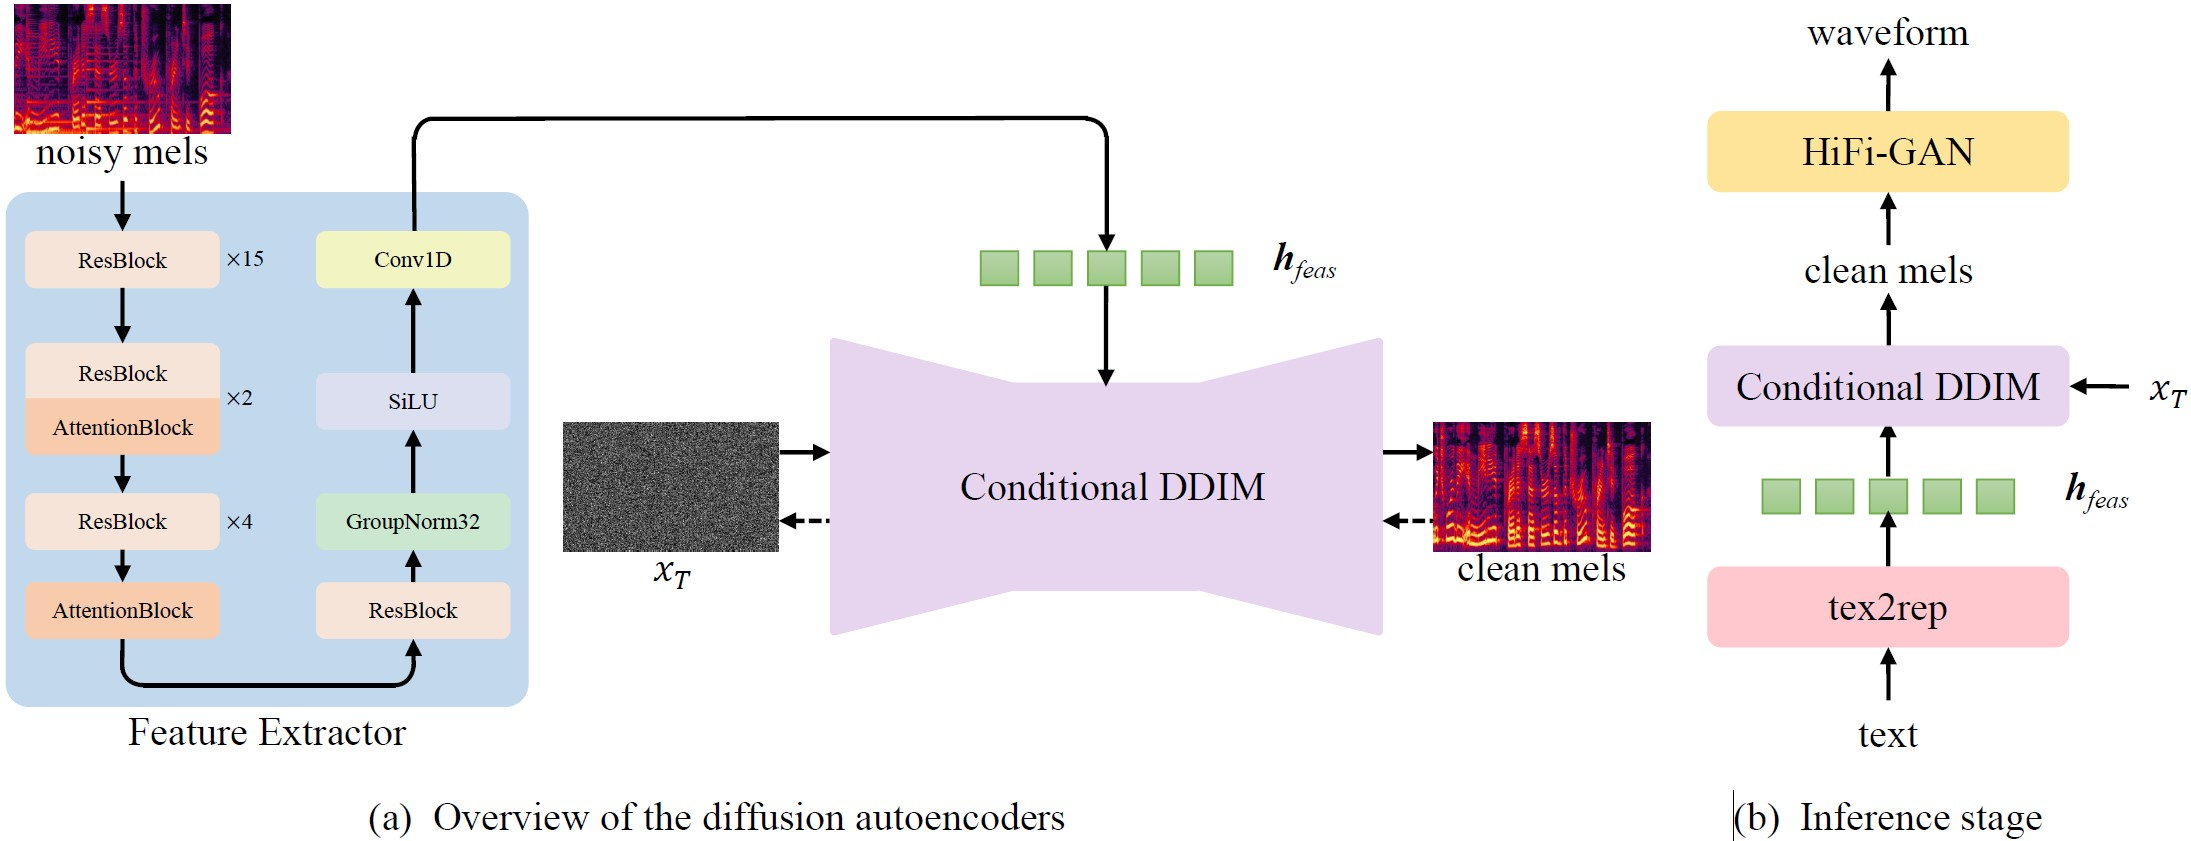
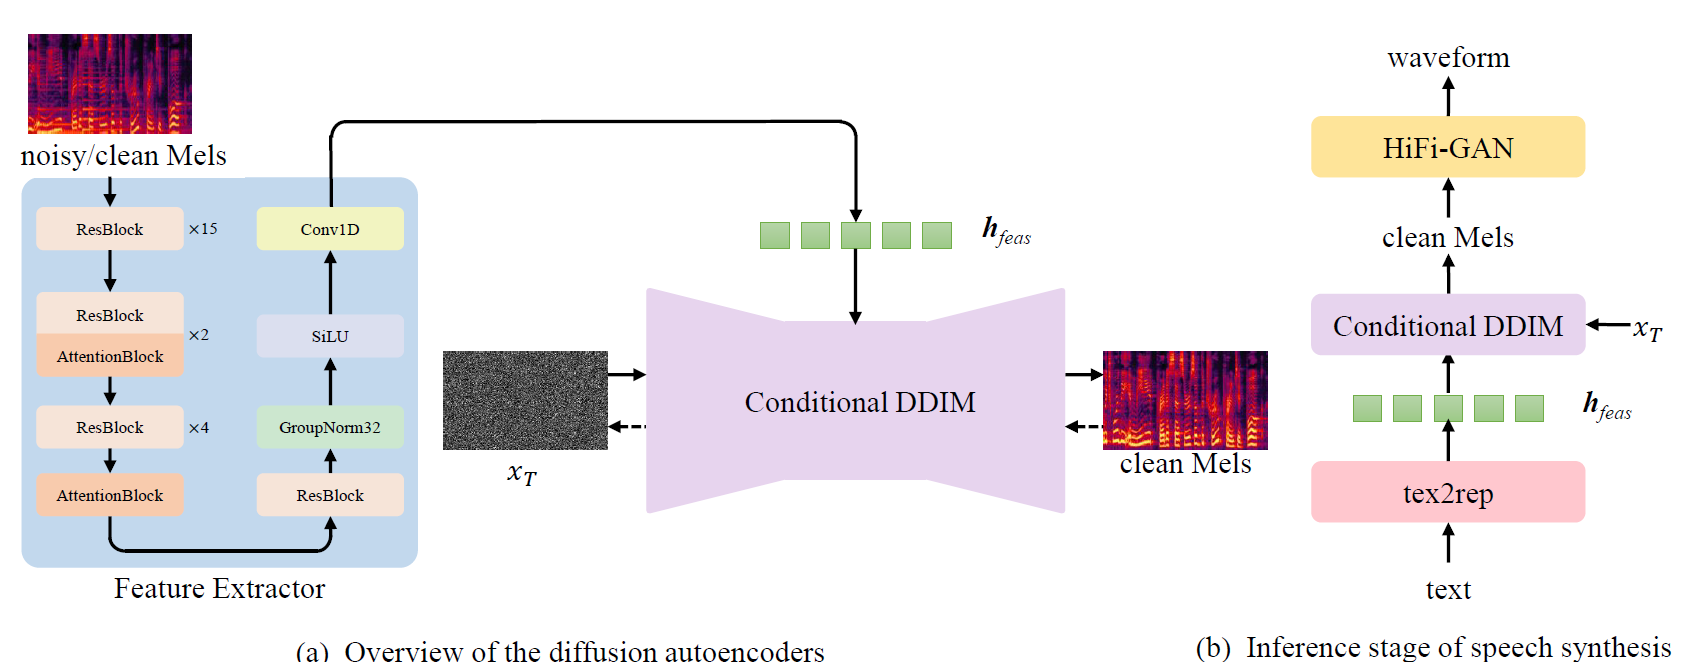
update content

diff --git a/index.html b/index.html
@@ -25,19 +25,21 @@
 
 <div class="container pt-5 mt-5 shadow p-5 mb-5 bg-white rounded">
 	<div class="text-center">
-	<h2>Speech Synthesis Model Training on Low-quality Data Using Noise-Robust Diffusion Autoencoders</h2>
+	<h2>Speech Synthesis with Low-quality Data Using Noise-Robust Diffusion Autoencoders</h2>
 		<br><br>
 	</div>
 	<p>
         <b>Abstract.</b> 
-		Speech synthesis models trained on a large amount of high-quality data have achieved human-like synthetic speech. 
-However, the quality of synthesized speech is highly correlated with the quality of training data. 
-Compared to high-quality data, low-quality data containing some noise is easier to collect in daily scenarios. 
-How to use low-quality data to train text-to-speech (TTS) model has become a hot and challenging topic. 
-In this study, we attempt to train diffusion models using low-quality data to learn robust representation. 
-Additionally, we propose a text-to-representation prediction module for a comprehensive end-to-end speech synthesis approach. 
-We conducted comprehensive subjective and objective evaluations through a series of experiments. 
-Compared with the SSL-based baseline, our model has been proven effective in terms of speech naturalness and similarity.</p>     
+		Speech synthesis models trained on massive data have achieved human-like synthetic speech, but the quality 
+		of synthesized speech is highly correlated with the quality of training data. Compared to high-quality ideal
+		 data recorded in professional studios, although low-quality data containing some noise is easier to collect 
+		 in daily scenarios, utilizing lowquality data to train speech synthesis models has still become challenging. 
+		 This paper proposes a training strategy for diffusion autoencoders that leverages low-quality data to obtain 
+		 noise-robust representations. Additionally, we build a text-torepresentation prediction module for a 
+		 comprehensive end-to-end speech synthesis approach. Experiments conducted on both simulated and real-world 
+		 noisy datasets demonstrate the noise robustness of the learned representations and the advantages of our 
+		 proposed model over baseline models in terms of the naturalness and similarity of synthesized audio when 
+		 using lowquality data.</p>     
 	  <p>This page is for <b>research demonstration purposes</b> only.</p>
 
 	<p>
@@ -62,10 +64,10 @@ Compared with the SSL-based baseline, our model has been proven effective in ter
 	</body>
 		<p>
 			<b>Figure.</b> 
-			The proposed TTS method: (a) Overview of the diffusion autoencoders, which consists of the feature 
-extractor and conditional Denoising Diffusion Implicit Model (DDIM). The dotted line stands for the training process, 
-and the solid line stands for the inference process. (b) In the inference stage, the tex2rep model converts text into 
-representation and conditional DDIM converts representation into mel-spectrogram, which is converted into speech through HiFi-GAN.
+			The proposed speech synthesis method: (a) Overview of the diffusion autoencoders, which consists of the feature extractor and conditional Denoising
+Diffusion Implicit Model (DDIM). The dotted line stands for the training process, and the solid line stands for the inference process. (b) In the inference stage,
+the tex2rep model converts text into representations and conditional DDIM converts representations into Mel-spectrogram, which is converted into speech
+through HiFi-GAN.
 		</p>
 </div>
 
